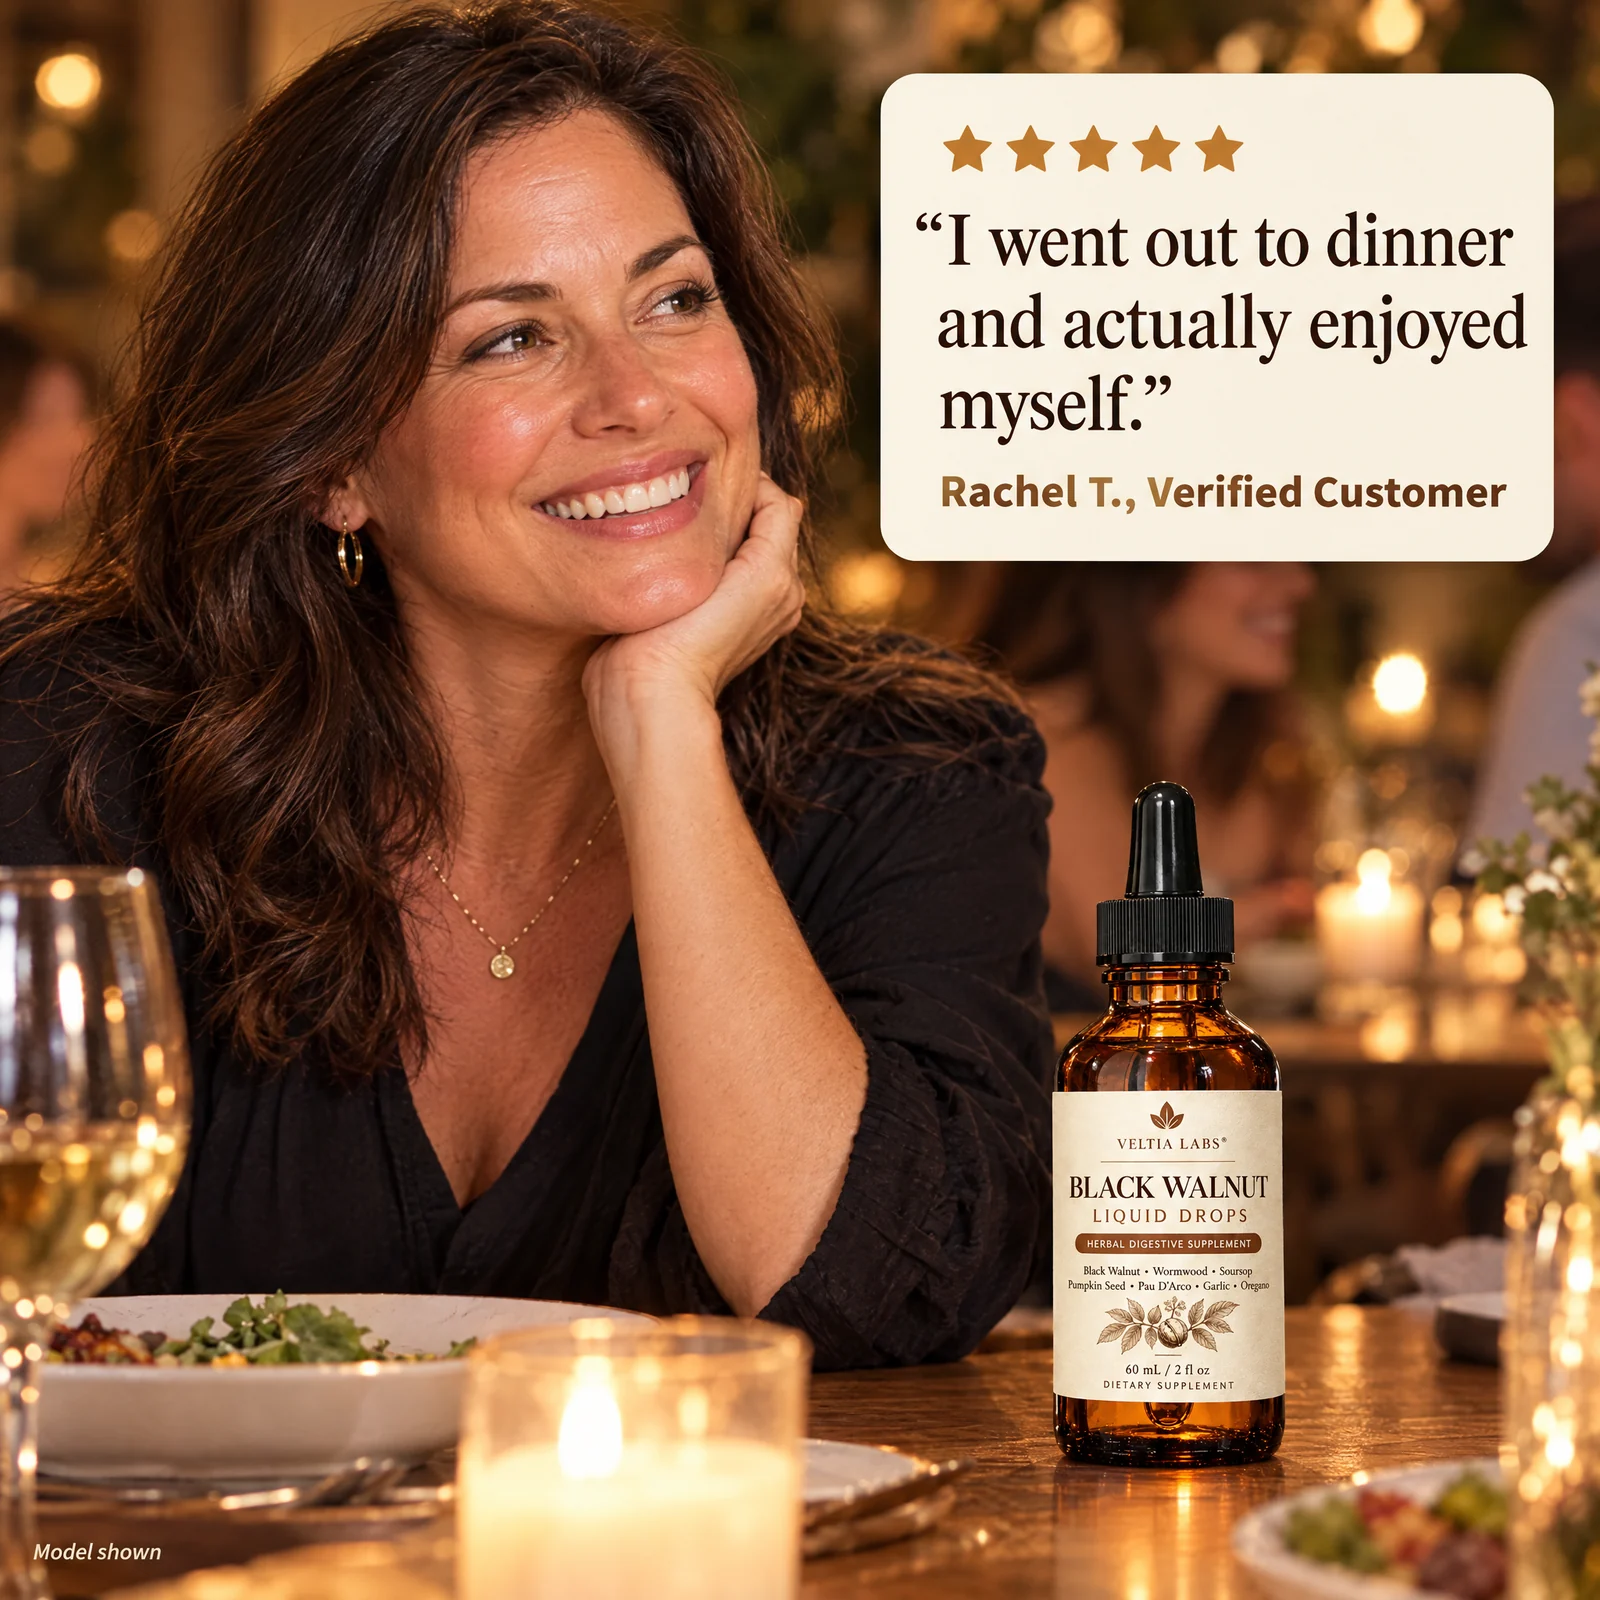
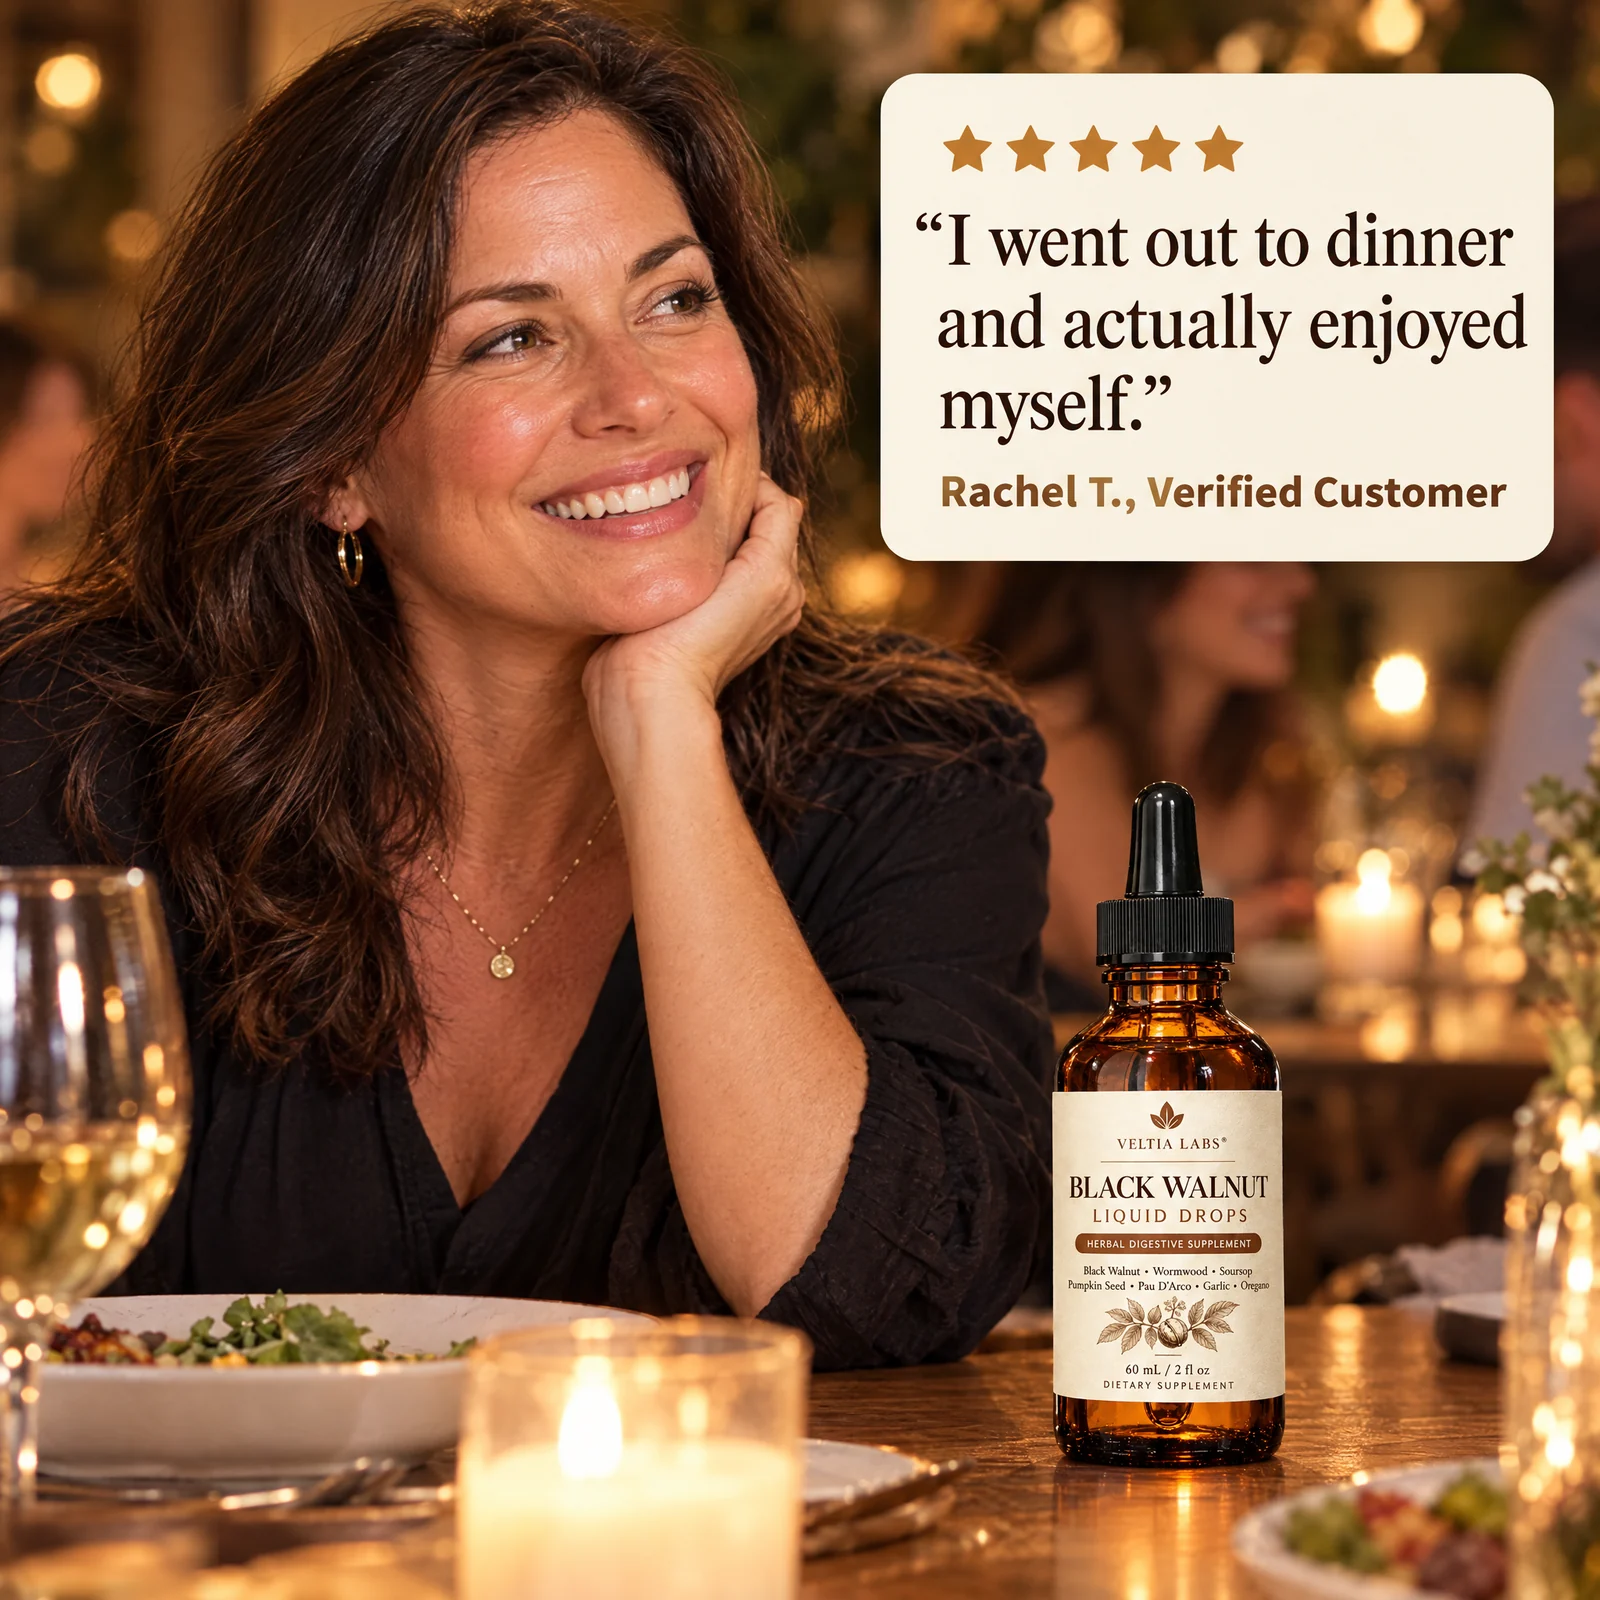
Testimonial image: remove the in-image 'Model shown' label
The owner will add the disclosure themselves; README notes the woman
pictured is an AI model, not Rachel.

Claude-Session: https://claude.ai/code/session_013qFJ6yuUf6HUAYj3topTHP

Changed region(s): [[0.0, 0.9375, 0.1562, 1.0]]

diff --git a/README.md b/README.md
@@ -96,7 +96,7 @@ Everything in `images/` except `veltia-bottle.webp` (your original photo) was ge
 
 | File | Where it goes |
 | --- | --- |
-| `carousel-1-hero.webp` … `carousel-8-guarantee.webp` | Product media, in number order (hero, benefits, Shield Breaker method, how to take it, timeline, vs. others, testimonial, guarantee), followed by `bundle-3.webp` and `bundle-5.webp`. Made with GPT Image 2.5 on Higgsfield from `veltia-bottle.webp`; the testimonial quote is Rachel T.'s own words; the woman pictured is an AI model, labelled "Model shown" in the image. Swap in a real photo of Rachel if she agrees. |
+| `carousel-1-hero.webp` … `carousel-8-guarantee.webp` | Product media, in number order (hero, benefits, Shield Breaker method, how to take it, timeline, vs. others, testimonial, guarantee), followed by `bundle-3.webp` and `bundle-5.webp`. Made with GPT Image 2.5 on Higgsfield from `veltia-bottle.webp`; the testimonial quote is Rachel T.'s own words; the woman pictured is an AI model, not Rachel; add a "model shown" note where the image is used, or swap in a real photo of Rachel if she agrees. |
 | `veltia-bottle.webp`, `product-lifestyle.webp`, `product-method.webp`, `product-flatlay.webp`, `product-dropper.webp`, `bundle-3.webp`, `bundle-5.webp` | Product media in Shopify admin, in that order |
 | `veltia-bottle.webp` / `bundle-3.webp` / `bundle-5.webp` | *Bundle picker → Bundle 1 / 2 / 3 image* |
 | `gift-bloat-guide.webp`, `gift-priority.webp` | *Free gifts → Gift 2 / Gift 3 image* |
